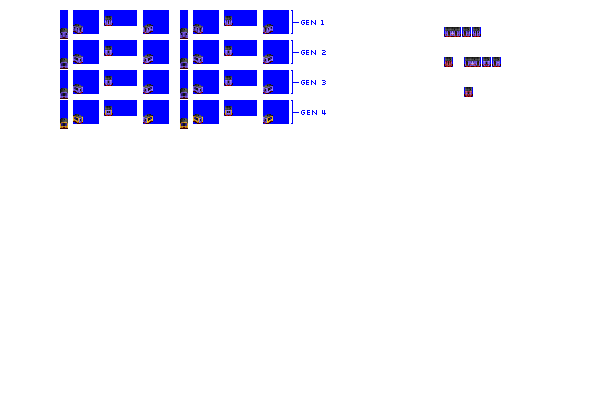
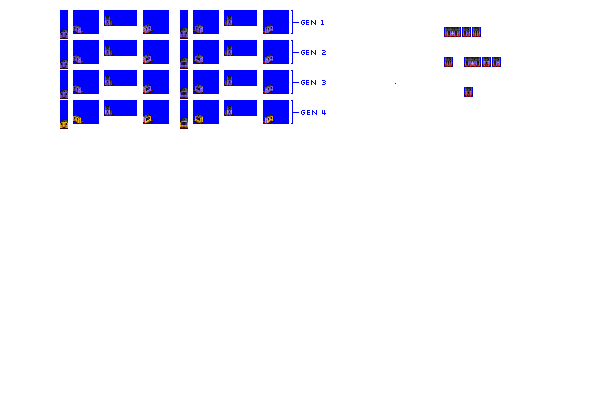
Change: shuffle ng caboose sprites, and remove type 4 ng caboose

diff --git a/src/vehicles/pony/caboose_cars_type_4_pony.py b/src/vehicles/pony/caboose_cars_type_4_pony.py
@@ -4,23 +4,6 @@ from train.factory import ModelDef
 def main(**kwargs):
     result = []
 
-    # --------------- narrow gauge -----------------------------------------------------------------
-
-    # really can't find 4 meaningful variants at 2/8
-
-    model_def = ModelDef(
-        class_name="CabooseCarType4",
-        base_numeric_id=29270,
-        gen=1,
-        subtype="B",
-        base_track_type="NG",
-        sprites_complete=False,
-    )
-
-    model_def.add_unit_def(class_name="CabooseCarUnit", chassis="4_axle_ng_16px")
-
-    result.append(model_def)
-
     # --------------- standard gauge ---------------------------------------------------------------
 
     model_def = ModelDef(
